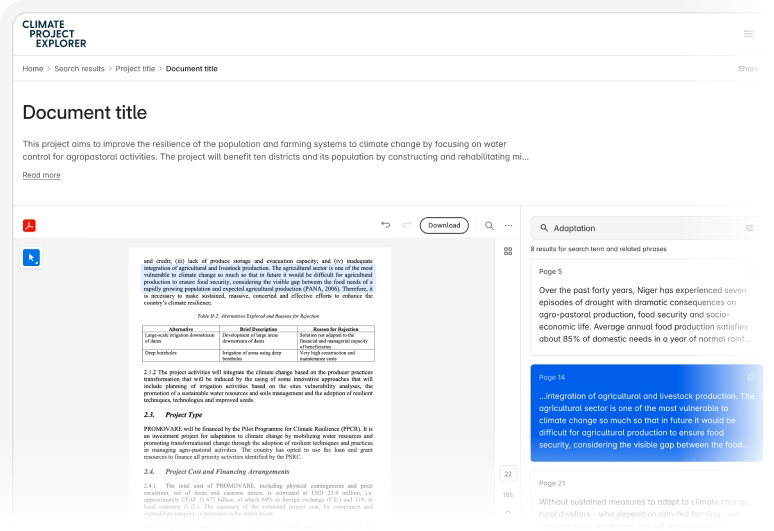
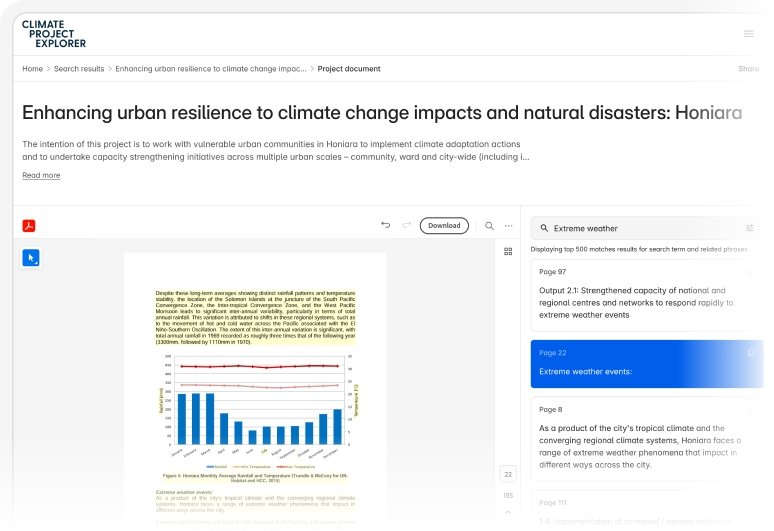
Feature/pdct 1659 replace landing page images to show actual mcf docs with (#268)
* style: small change dropping the dropdown div directly below search bar

* style: swap images used in our content components

* feat: add padding around header

* style: change border on search input to white

* style: change text size to 1rem

* style: responsive font sizes

* style: add tracking to custom h2s

* style: change border width to 1px

* style: add spacing between fund info and logos

* style: remove fill from the icon

* style: add padding to contextual search component

* style: ui fixes to the footer

---------

diff --git a/themes/mcf/components/Footer.tsx b/themes/mcf/components/Footer.tsx
@@ -10,16 +10,16 @@ const Footer = () => {
     <footer className="flex flex-col bg-grey-400">
       <div className="py-12">
         <SiteWidth>
-          <div className="flex flex-col md:flex-row gap-4">
+          <div className="flex flex-col md:flex-row gap-32">
             <div className="footer__section w-full md:w-1/2 lg:w-2/3" data-cy="footer-mcf">
               <Heading level={2} extraClasses="custom-header">
                 About
               </Heading>
-              <p>Climate Project Explorer is a project to reveal all of the data about Multilateral Climate Funds.</p>
               <div className="footer__section">
                 <p>
-                  The tool is powered by <ExternalLink url="https://www.climatepolicyradar.org">Climate Policy Radar</ExternalLink> who use AI and
-                  data science to map the world's climate policies.
+                  Climate Project Explorer is a project to reveal all of the data about Multilateral Climate Funds. The tool is powered by{" "}
+                  <ExternalLink url="https://www.climatepolicyradar.org">Climate Policy Radar</ExternalLink> who use AI and data science to map the
+                  world's climate policies.
                 </p>
               </div>
               <SocialMediaContent />
@@ -48,8 +48,8 @@ const Footer = () => {
       </div>
       <div className="footer__base">
         <SiteWidth extraClasses="flex flex-1 items-end h-full pt-[20px] flex-wrap text-sm lg:text-base lg:pt-0 lg:gap-6">
-          <p className="lg:mb-6">Copyright © {new Date().getFullYear()} Climate Project Explorer</p>
-          <div className="ml-6 flex flex-wrap gap-6 lg:mb-6 lg:ml-0">
+          <p className="lg:mb-6 text-sm">Copyright © {new Date().getFullYear()} Climate Project Explorer</p>
+          <div className="ml-6 flex flex-wrap gap-6 lg:mb-6 lg:ml-0 text-sm">
             <ExternalLink url="https://www.climatepolicyradar.org/privacy-policy" className="text-textNormal underline">
               Privacy policy
             </ExternalLink>

diff --git a/themes/mcf/components/ContextualSearchContent.tsx b/themes/mcf/components/ContextualSearchContent.tsx
@@ -6,12 +6,12 @@ const ContextualSearchContent = () => {
   return (
     <SiteWidth extraClasses="!max-w-[1024px]">
       <div className="flex flex-col md:flex-row justify-center">
-        <div className="border-slate-700 border-solid border-t-2 pt-16 pb-16 md:pr-8 flex-1">
+        <div className="border-slate-700 border-solid border-t pt-16 pb-16 md:pr-8 flex-1">
           <Heading level={2} extraClasses="custom-header">
             Central knowledge-base for MCFs
           </Heading>
           <p>Find information from 4 different funds projects and policies in more than 130 countries.</p>
-          <div className="md:pt-2">
+          <div className="pt-9">
             {/* eslint-disable-next-line @next/next/no-img-element */}
             <img
               src={"/images/climate-project-explorer/cpe-search-results.jpg"}
@@ -20,13 +20,13 @@ const ContextualSearchContent = () => {
             />
           </div>
         </div>
-        <div className=" border-slate-700 border-solid border-t-2 md:border-l-2 md:pl-8 pt-16 pb-16 flex-1">
+        <div className=" border-slate-700 border-solid border-t md:border-l md:pl-8 pt-16 pb-16 flex-1">
           <Heading level={2} extraClasses="custom-header">
             Contextual search
           </Heading>
-          <p>Quickly find exact matches and highlighted related phrases.</p>
-          <p>Get English translations of relevant passages.</p>
-          <div className="pt-2">
+          <p>Quickly find exact matches and highlighted related phrases. Get English translations of relevant passages.</p>
+
+          <div className="pt-9">
             {/* eslint-disable-next-line @next/next/no-img-element */}
             <img
               src={"/images/climate-project-explorer/cpe-contextual-search.jpg"}

diff --git a/themes/mcf/components/AboutTheFunds.tsx b/themes/mcf/components/AboutTheFunds.tsx
@@ -32,14 +32,14 @@ const fundDescriptions: FundDescription[] = [
 const AboutTheFundsContent = () => {
   return (
     <SiteWidth extraClasses="!max-w-[1024px]">
-      <div className="flex justify-between">
+      <div className="flex justify-between gap-20">
         <div className="content-center xl:max-w-screen-md py-16">
           <Heading level={2} extraClasses="custom-header">
             The Funds
           </Heading>
           {fundDescriptions.map((fund) => (
             <p key={fund.name}>
-              <strong>{fund.name} </strong>
+              <strong>{fund.name}</strong>
               {fund.description}
               <br />
               <br />

diff --git a/themes/mcf/styles/styles.scss b/themes/mcf/styles/styles.scss
@@ -95,7 +95,7 @@ body {
     @apply hidden sm:block;
 
     &.search-dropdown_large {
-      top: 48px;
+      top: 50px;
     }
   }
 
@@ -129,12 +129,12 @@ body {
   }
 
   h2.custom-header {
-    @apply leading-6 font-bold tracking-[0.04em];
+    @apply leading-6 font-bold tracking-[0.04em] tracking-tight;
   }
 
   .custom-hero,
   h1.custom-hero {
-    @apply font-greycliff text-[72px] font-bold leading-[72px] tracking-[-0.04em] text-center text-mcf-blue;
+    @apply font-greycliff text-[56px] leading-none md:text-[72px] font-bold md:leading-[72px] tracking-[-0.04em] text-center text-mcf-blue;
   }
 
   .custom-search-button {

diff --git a/themes/mcf/components/LandingSearchForm.tsx b/themes/mcf/components/LandingSearchForm.tsx
@@ -56,7 +56,7 @@ const LandingSearchForm = ({ placeholder, input, handleSearchInput }: SearchForm
             data-analytics="landingPage-searchInput"
             data-cy="search-input"
             type="search"
-            className="text-xl leading-5 py-3 h-[50px] px-6 w-full text-gray-800 focus:ring-0 rounded-full border-neutral-900 border-2"
+            className="text-base leading-5 py-3 h-[50px] px-6 w-full text-gray-800 focus:ring-0 rounded-full border-white border-2"
             value={term}
             onChange={onChange}
             placeholder={displayPlaceholder}

diff --git a/src/components/svg/Icons.tsx b/src/components/svg/Icons.tsx
@@ -670,7 +670,7 @@ export const FacebookIcon = ({ height = "20", width = "24", color = "currentColo
       width={width}
       height={height}
       viewBox="0 0 24 24"
-      fill={color}
+      fill="none"
       stroke={color}
       strokeWidth="2"
       strokeLinecap="round"
@@ -712,7 +712,7 @@ export const LinkedInIcon = ({ height = "20", width = "24", color = "currentColo
       width={width}
       height={height}
       viewBox="0 0 24 24"
-      fill={color}
+      fill="none"
       stroke={color}
       strokeWidth="2"
       strokeLinecap="round"

diff --git a/themes/mcf/components/Header.tsx b/themes/mcf/components/Header.tsx
@@ -17,7 +17,7 @@ const Header = ({ background = true, showBottomBorder = true }) => {
   const showSearch = !NON_SEARCH_PAGES.includes(router.pathname);
 
   return (
-    <header data-cy="header" className={`w-full  ${showBottomBorder ? "border-b border-gray-200 border-solid" : ""}`}>
+    <header data-cy="header" className={`w-full py-2 ${showBottomBorder ? "border-b border-gray-200 border-solid" : ""}`}>
       <SiteWidth>
         <div className="flex flex-nowrap my-2">
           <div className="items-center flex flex-nowrap flex-1">

diff --git a/themes/mcf/pages/homepage.tsx b/themes/mcf/pages/homepage.tsx
@@ -20,7 +20,7 @@ const LandingPage = ({ handleSearchInput, searchInput }: TProps) => {
         </div>
         <AboutClimateProjectExplorer />
         <ContextualSearchContent />
-        <div className={`bg-white border-slate-700 border-solid border-t-2`}>
+        <div className={`bg-white border-slate-700 border-solid border-t`}>
           <AboutTheFunds />
         </div>
         <ClimatePolicyRadarBanner />
